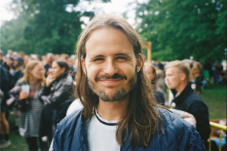
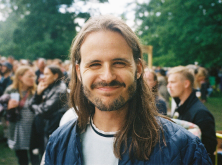
Update assets + dirty fix of font jumping on load

diff --git a/components/photoStackComposition.vue b/components/photoStackComposition.vue
@@ -19,7 +19,7 @@ import { ref, nextTick, onMounted } from 'vue';
 const photos = useState(() => [
   { src: 'img/lemons.png', srcset: 'img/lemons@2x.png 2x, img/lemons@3x.png 3x', position: { x: 0, y: 0 }, width: null, height: null, rotate: '', zIndex: 0, caption: 'Lemon trees in Mallorca' },
   { src: 'img/eik.png', srcset: 'img/eik@2x.png 2x, img/eik@3x.png 3x', position: { x: 0, y: 0 }, width: null, height: null, rotate: '', zIndex: 1, caption: 'My son Eik' },
-  { src: 'img/me-same-size.png', srcset: 'img/me-same-size@2x.png 2x, img/me-same-size@3x.png 3x', position: { x: 0, y: 0 }, width: null, height: null, rotate: '', zIndex: 2, caption: 'Me, happy at a concert' },
+  { src: 'img/me.png', srcset: 'img/me@2x.png 2x, img/me@3x.png 3x', position: { x: 0, y: 0 }, width: null, height: null, rotate: '', zIndex: 2, caption: 'Me, happy at a concert' },
 ]);
 let animatePhotos = useState(() => true);
 let draggedPhotoIndex = ref(null);

diff --git a/pages/index.vue b/pages/index.vue
@@ -3,7 +3,8 @@
     class="grid gap-12 sm:gap-14 sm:col-start-2 sm:col-span-14 md:col-start-3 md:col-span-12 lg:col-start-4 lg:col-span-10 xl:col-start-5 xl:col-span-8">
     <Title>Benjamin Ottensten</Title>
     <Meta name="Design & Product lead based in Copenhagen, Denmark" />
-    <section class="w-[calc(100vw-48px)] xs:w-[calc(100vw-80px)] sm:w-auto sm:grid sm:grid-cols-8 sm:gap-8">
+    <section
+      class="w-[calc(100vw-48px)] xs:w-[calc(100vw-80px)] sm:w-auto sm:grid sm:grid-cols-8 sm:gap-8 sm:h-[144px] lg:h-[120px] xl:h-[144px]">
       <p class="mb-10 sm:mb-0 sm:col-span-5">Most recently Head of Product at The Org for 3 years. Did product design and
         frontend development at GoMore before that. I enjoy designing and developing high-quality user experiences that
         create real value. And potentially some more text here.</p>
